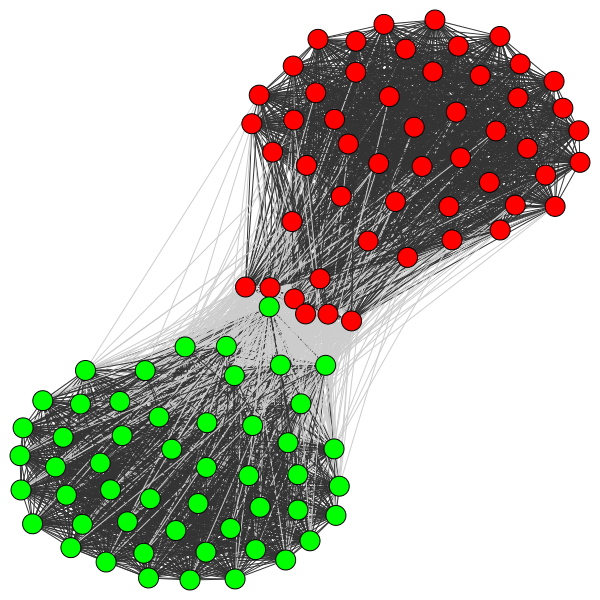
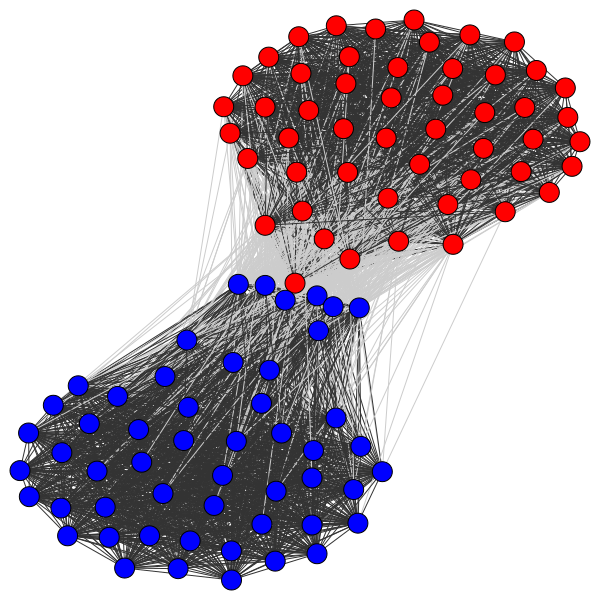
Modify cluster output color to blue and red to represent parties. Output all files to subdirectory. Add README

diff --git a/cluster_igraph.py b/cluster_igraph.py
@@ -2,9 +2,10 @@ import download_data as dd
 import matplotlib.pyplot as plt
 import igraph
 import numpy
+import collections
 
 # Usage: python cluster_igraph.py (no params)
-# This module gathers all house and senate data from th 101st to 113th
+# This module gathers all house and senate data from the 101st to 113th
 # and calculates clusters from each of them individually. It plots each
 # and compares differences between house and senate
 if __name__ == "__main__":
@@ -21,10 +22,26 @@ if __name__ == "__main__":
       data = dd.senatedata(x)
       graph = dd.makegraph(data)
 
+      # get party info to determine color
+      partymode = [int(collections.Counter(info.party).most_common(1)[0][0]) for info in graph.vs["info"]]
+      graph.vs["party"] = partymode
+
       # fast greedy tended to be the most reasonable cluster
       community = graph.community_fastgreedy().as_clustering()
-      filename = "senate" + str(x) + ".png"
-      igraph.plot(community, filename)
+
+      # get subgraphs to determine colors
+      clusters = community.subgraphs()
+
+      # Assume largest parties ar republican and democrat
+      # last colors are unimportant since only going to 1990, but include in case more clusters are found
+      if (clusters[0].vs[0]["party"] == 100):
+        color_list = ["blue", "red", "yellow", "orange", "green"]
+      else:
+        color_list = ["red", "blue", "yellow", "orange", "green"]
+
+      # write plot to file
+      filename = "cluster_images/senate" + str(x) + ".png"
+      igraph.plot(community, filename, vertex_color=[color_list[x] for x in community.membership])
       
       # keep track of cluster size and modularity
       sen_clusters.append(community.__len__())
@@ -37,17 +54,30 @@ if __name__ == "__main__":
   house_modularities = [];
   house_clusters = [];
 
-  # # for houses 101 - 113
+  # for houses 101 - 113
   for x in roll_range:
       
       data = dd.housedata(x)
       graph = dd.makegraph(data)
 
+      # get party info to determine color
+      partymode = [int(collections.Counter(info.party).most_common(1)[0][0]) for info in graph.vs["info"]]
+      graph.vs["party"] = partymode
+
       # fast greedy tended to be the most reasonable cluster
       community = graph.community_fastgreedy().as_clustering()
-      filename = "house" + str(x) + ".png"
-      igraph.plot(community, filename)
-      
+
+      # Assume largest parties ar republican and democrat
+      # last colors are unimportant since only going to 1990, but include in case more clusters are found
+      if (clusters[0].vs[0]["party"] == 100):
+        color_list = ["blue", "red", "yellow", "orange", "green"]
+      else:
+        color_list = ["red", "blue", "yellow", "orange", "green"]
+
+      # print plot to file
+      filename = "cluster_images/house" + str(x) + ".png"
+      igraph.plot(community, filename, vertex_color=[color_list[x] for x in community.membership])
+
       # keep track of cluster size and modularity
       house_clusters.append(community.__len__())
       house_modularities.append(community.modularity)
@@ -75,7 +105,7 @@ if __name__ == "__main__":
   plt.plot(roll_range,p_2(roll_range),'y--')
 
   # save plot
-  plt.savefig("modularities.png", bbox_inches='tight')
+  plt.savefig("cluster_images/modularities.png", bbox_inches='tight')
 
   # clear plot for new one
   plt.clf()
@@ -94,6 +124,5 @@ if __name__ == "__main__":
   barlist[1].set_color('y')
 
   # save bar graph
-  plt.savefig("modularities_bar.png", bbox_inches='tight')
-
+  plt.savefig("cluster_images/modularities_bar.png", bbox_inches='tight')
 
